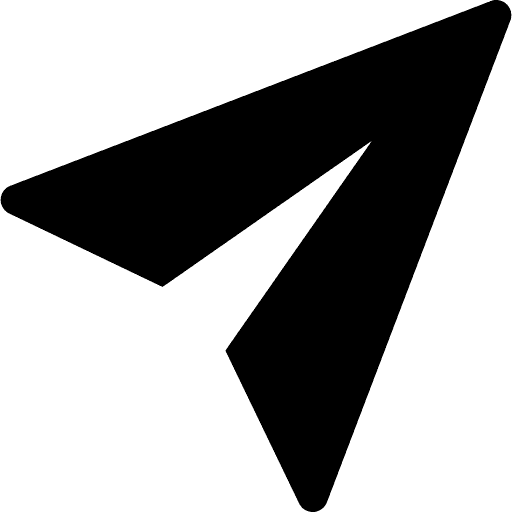
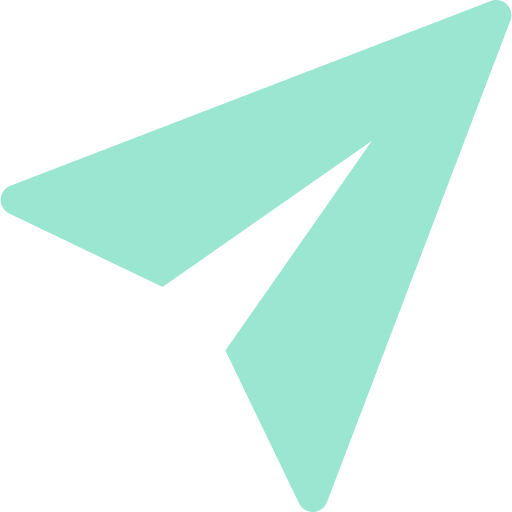
UC5: Chat
Enhance ChatView UI and improve message input handling

Updated `sendicon.png` to a new version. Enhanced `ChatView.xaml` UI:
- Improved overlay visibility with `Opacity="1"`.
- Added border strokes and padding for polished message cards.
- Optimized `CollectionView` layout performance.
- Refined message bubbles with updated margins, colors, and shapes.
- Enabled text wrapping and preserved newlines in message labels.
- Adjusted image alignment for better visual consistency.

Improved input area:
- Increased padding, spacing, and added border styling.
- Enhanced `Entry` field with new attributes, styling, and event handling.
- Added `Completed="MessageEntry_Completed"` to handle Enter/Send key.

Updated `ChatView.xaml.cs`:
- Increased layout timeout for stability.
- Added `MessageEntry_Completed` method to execute `SendMessageCommand` and unfocus the input field.

diff --git a/src/MatchQuest.App/Views/ChatView.xaml b/src/MatchQuest.App/Views/ChatView.xaml
@@ -81,7 +81,8 @@
         <BoxView Grid.Row="0" Grid.RowSpan="3" Grid.Column="0" Grid.ColumnSpan="2"
                  Color="{StaticResource OverlayColor}"
                  HorizontalOptions="Fill" VerticalOptions="Fill"
-                 InputTransparent="True" />
+                 InputTransparent="True"
+                 Opacity="1"/>
 
         <!-- Left: Matches list (sidebar) -->
         <Border Grid.Row="0" Grid.RowSpan="3" Grid.Column="0"
@@ -205,7 +206,9 @@
 
         <!-- Right: Chat messages card -->
         <Border Grid.Column="1" Grid.Row="1" Margin="32,12,32,12"
-                BackgroundColor="Transparent">
+                Stroke="#c0ffee"
+                StrokeThickness="1"
+                Padding="20,20,20,20">
             <Border.StrokeShape>
                 <RoundRectangle CornerRadius="20" />
             </Border.StrokeShape>
@@ -218,7 +221,7 @@
                                 VerticalOptions="Fill">
                     <!-- Make CollectionView measure all items so scrolling to end is accurate -->
                     <CollectionView.ItemsLayout>
-                        <LinearItemsLayout Orientation="Vertical" ItemSizingStrategy="MeasureAllItems" />
+                        <LinearItemsLayout Orientation="Vertical" />
                     </CollectionView.ItemsLayout>
 
                     <CollectionView.ItemTemplate>
@@ -231,13 +234,17 @@
                                     <!-- Outbound (right) -->
                                     <Grid ColumnDefinitions="*,Auto" IsVisible="{Binding IsOutbound, Converter={StaticResource InverseBooleanConverter}}">
                                         <StackLayout Orientation="Horizontal" HorizontalOptions="End" Spacing="8">
-                                            <Border BackgroundColor="#C0ffee" Padding="12" StrokeThickness="0">
+                                            <Border Margin="0,0,20,10" BackgroundColor="#C0ffee" Padding="12" StrokeThickness="1.5">
                                                 <Border.StrokeShape>
-                                                    <RoundRectangle CornerRadius="14" />
+                                                    <RoundRectangle CornerRadius="14,14,14,0" />
                                                 </Border.StrokeShape>
-                                                <Label Text="{Binding MessageText}" TextColor="Black" LineBreakMode="WordWrap" />
+                                                <!-- Allow wrapping and preserve newlines -->
+                                                <Label Text="{Binding MessageText}"
+                                                       TextColor="Black"
+                                                       LineBreakMode="WordWrap"
+                                                       MaximumWidthRequest="600"/>
                                             </Border>
-                                            <Image Source="showcaseprofile.png" WidthRequest="48" HeightRequest="48">
+                                            <Image VerticalOptions="End" Source="showcaseprofile.png" WidthRequest="48" HeightRequest="48">
                                                 <Image.Clip>
                                                     <EllipseGeometry Center="24,24" RadiusX="24" RadiusY="24" />
                                                 </Image.Clip>
@@ -247,16 +254,20 @@
                                     <!-- Inbound (left) -->
                                     <Grid ColumnDefinitions="Auto,*" IsVisible="{Binding IsOutbound}">
                                         <StackLayout Orientation="Horizontal" HorizontalOptions="Start" Spacing="8">
-                                            <Image Source="showcaseprofile.png" WidthRequest="48" HeightRequest="48">
+                                            <Image VerticalOptions="End" Source="showcaseprofile.png" WidthRequest="48" HeightRequest="48">
                                                 <Image.Clip>
                                                     <EllipseGeometry Center="24,24" RadiusX="24" RadiusY="24" />
                                                 </Image.Clip>
                                             </Image>
-                                            <Border BackgroundColor="#001E1E1E" Stroke="#A4D5C7" StrokeThickness="1.5" Padding="12">
+                                            <Border Margin="20,0,0,10" BackgroundColor="#383535" Stroke="#A4D5C7" StrokeThickness="1.5" Padding="12">
                                                 <Border.StrokeShape>
-                                                    <RoundRectangle CornerRadius="14" />
+                                                    <RoundRectangle CornerRadius="14,14,0,14" />
                                                 </Border.StrokeShape>
-                                                <Label Text="{Binding MessageText}" TextColor="#DADADA" LineBreakMode="WordWrap" />
+                                                <!-- Fixed broken attribute and enable wrapping/newlines -->
+                                                <Label Text="{Binding MessageText}"
+                                                       TextColor="#DADADA"
+                                                       LineBreakMode="WordWrap"
+                                                       MaximumWidthRequest="600"/>
                                             </Border>
                                         </StackLayout>
                                     </Grid>
@@ -269,13 +280,26 @@
         </Border>
 
         <!-- Input area (binds to viewmodel SendMessage) -->
-        <Grid Grid.Column="1" Grid.Row="2" Padding="20" ColumnDefinitions="*,Auto" VerticalOptions="End" ColumnSpacing="10">
-            <Border>
+        <Grid Grid.Column="1" Grid.Row="2" Padding="30" ColumnDefinitions="*,Auto" VerticalOptions="End" ColumnSpacing="20">
+            <Border Stroke="#c0ffee">
                 <Border.StrokeShape>
-                    <RoundRectangle CornerRadius="12" />
+                    <RoundRectangle StrokeThickness="10" CornerRadius="12" />
                 </Border.StrokeShape>
-                <Grid BackgroundColor="#192126">
-                    <Entry Text="{Binding MessageText, Mode=TwoWay}" Placeholder="Type a message..." PlaceholderColor="#DADADA" TextColor="#DADADA" VerticalOptions="Center" ReturnType="Send" BackgroundColor="Transparent" />
+                <Grid BackgroundColor="#383535">
+                    <Entry
+                        x:Name="MessageEntry"
+                        Text="{Binding MessageText, Mode=TwoWay}"
+                        FontAttributes="Italic"
+                        FontFamily="RubikRegular"
+                        Placeholder="Type a message..."
+                        PlaceholderColor="#DADADA"
+                        TextColor="#C0ffee"
+                        VerticalOptions="Center"
+                        ReturnType="Send"
+                        BackgroundColor="Transparent"
+                        Completed="MessageEntry_Completed"
+                        MinimumHeightRequest="60"
+                        Margin="20,8,20,8"/>
                 </Grid>
             </Border>
 

diff --git a/src/MatchQuest.App/Views/ChatView.xaml.cs b/src/MatchQuest.App/Views/ChatView.xaml.cs
@@ -45,7 +45,7 @@ public partial class ChatView : ContentPage
         }
     }
 
-    private async Task WaitForCollectionViewLayoutAsync(int timeoutMs = 1500)
+    private async Task WaitForCollectionViewLayoutAsync(int timeoutMs = 2500)
     {
         if (_collectionViewMeasured) return;
 
@@ -98,6 +98,21 @@ public partial class ChatView : ContentPage
             await Task.Delay(120).ConfigureAwait(false);
             await ScrollToBottomAsync().ConfigureAwait(false);
         });
+    }
+
+    private void MessageEntry_Completed(object? sender, EventArgs e)
+    {
+        // When user presses Enter/Send on the keyboard, invoke the VM command.
+        if (BindingContext is ChatViewModel vm && vm.SendMessageCommand != null && vm.SendMessageCommand.CanExecute(null))
+        {
+            vm.SendMessageCommand.Execute(null);
+        }
+
+        // Remove keyboard focus so Enter doesn't re-open it on some platforms.
+        if (sender is Microsoft.Maui.Controls.Entry entry)
+        {
+            entry.Unfocus();
+        }
     }
 
     protected override void OnDisappearing()
